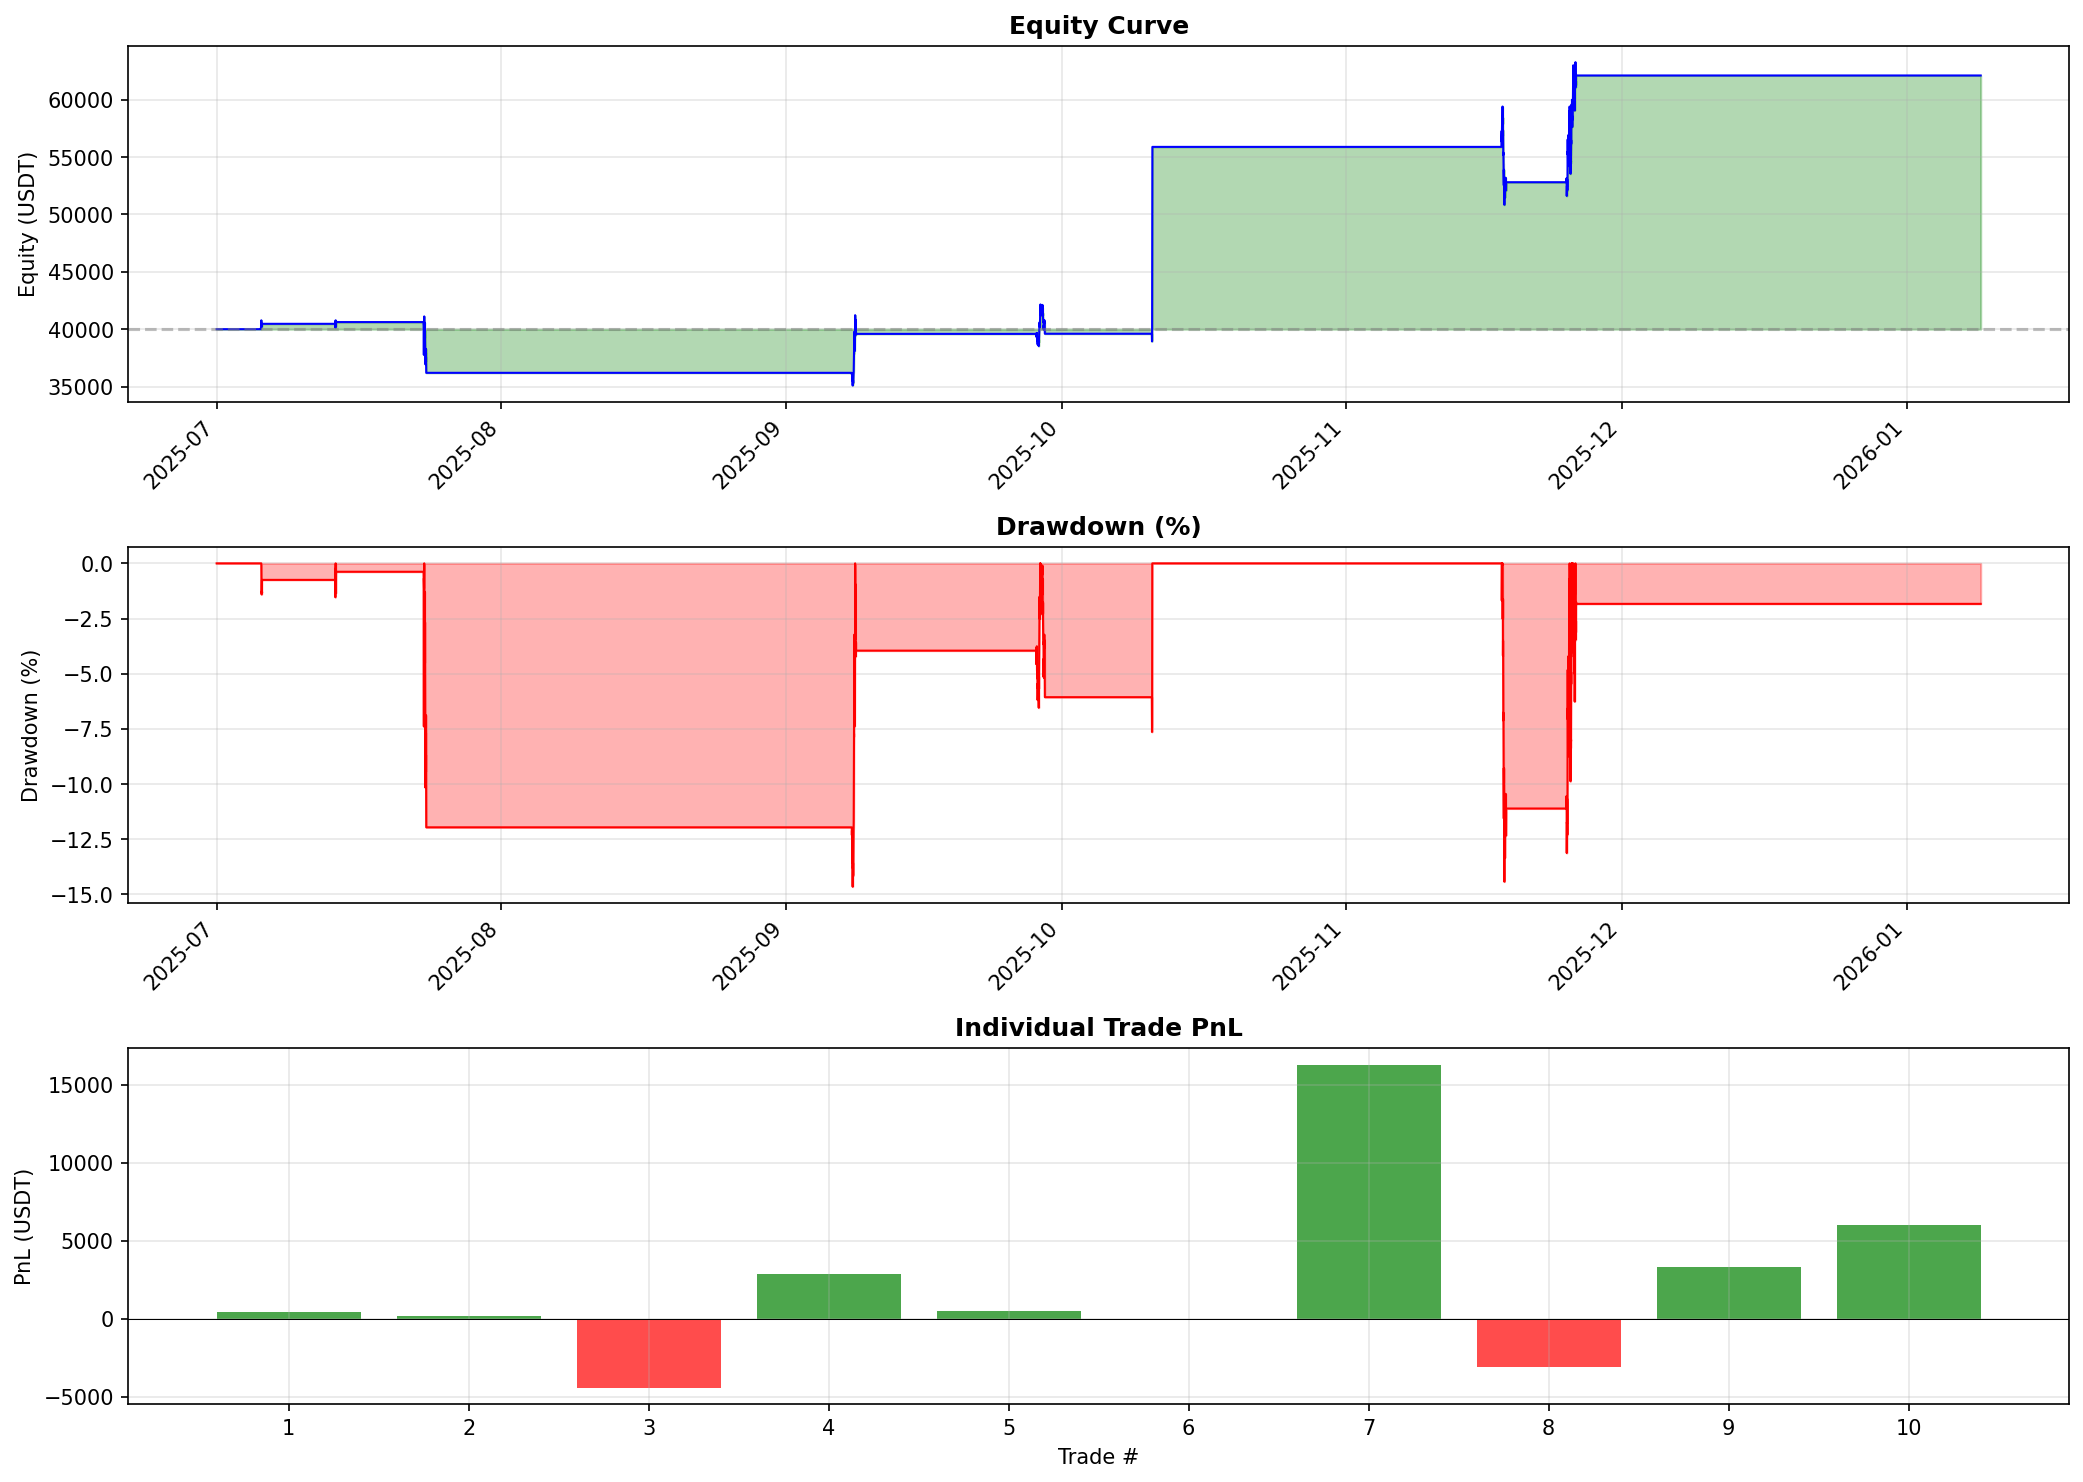
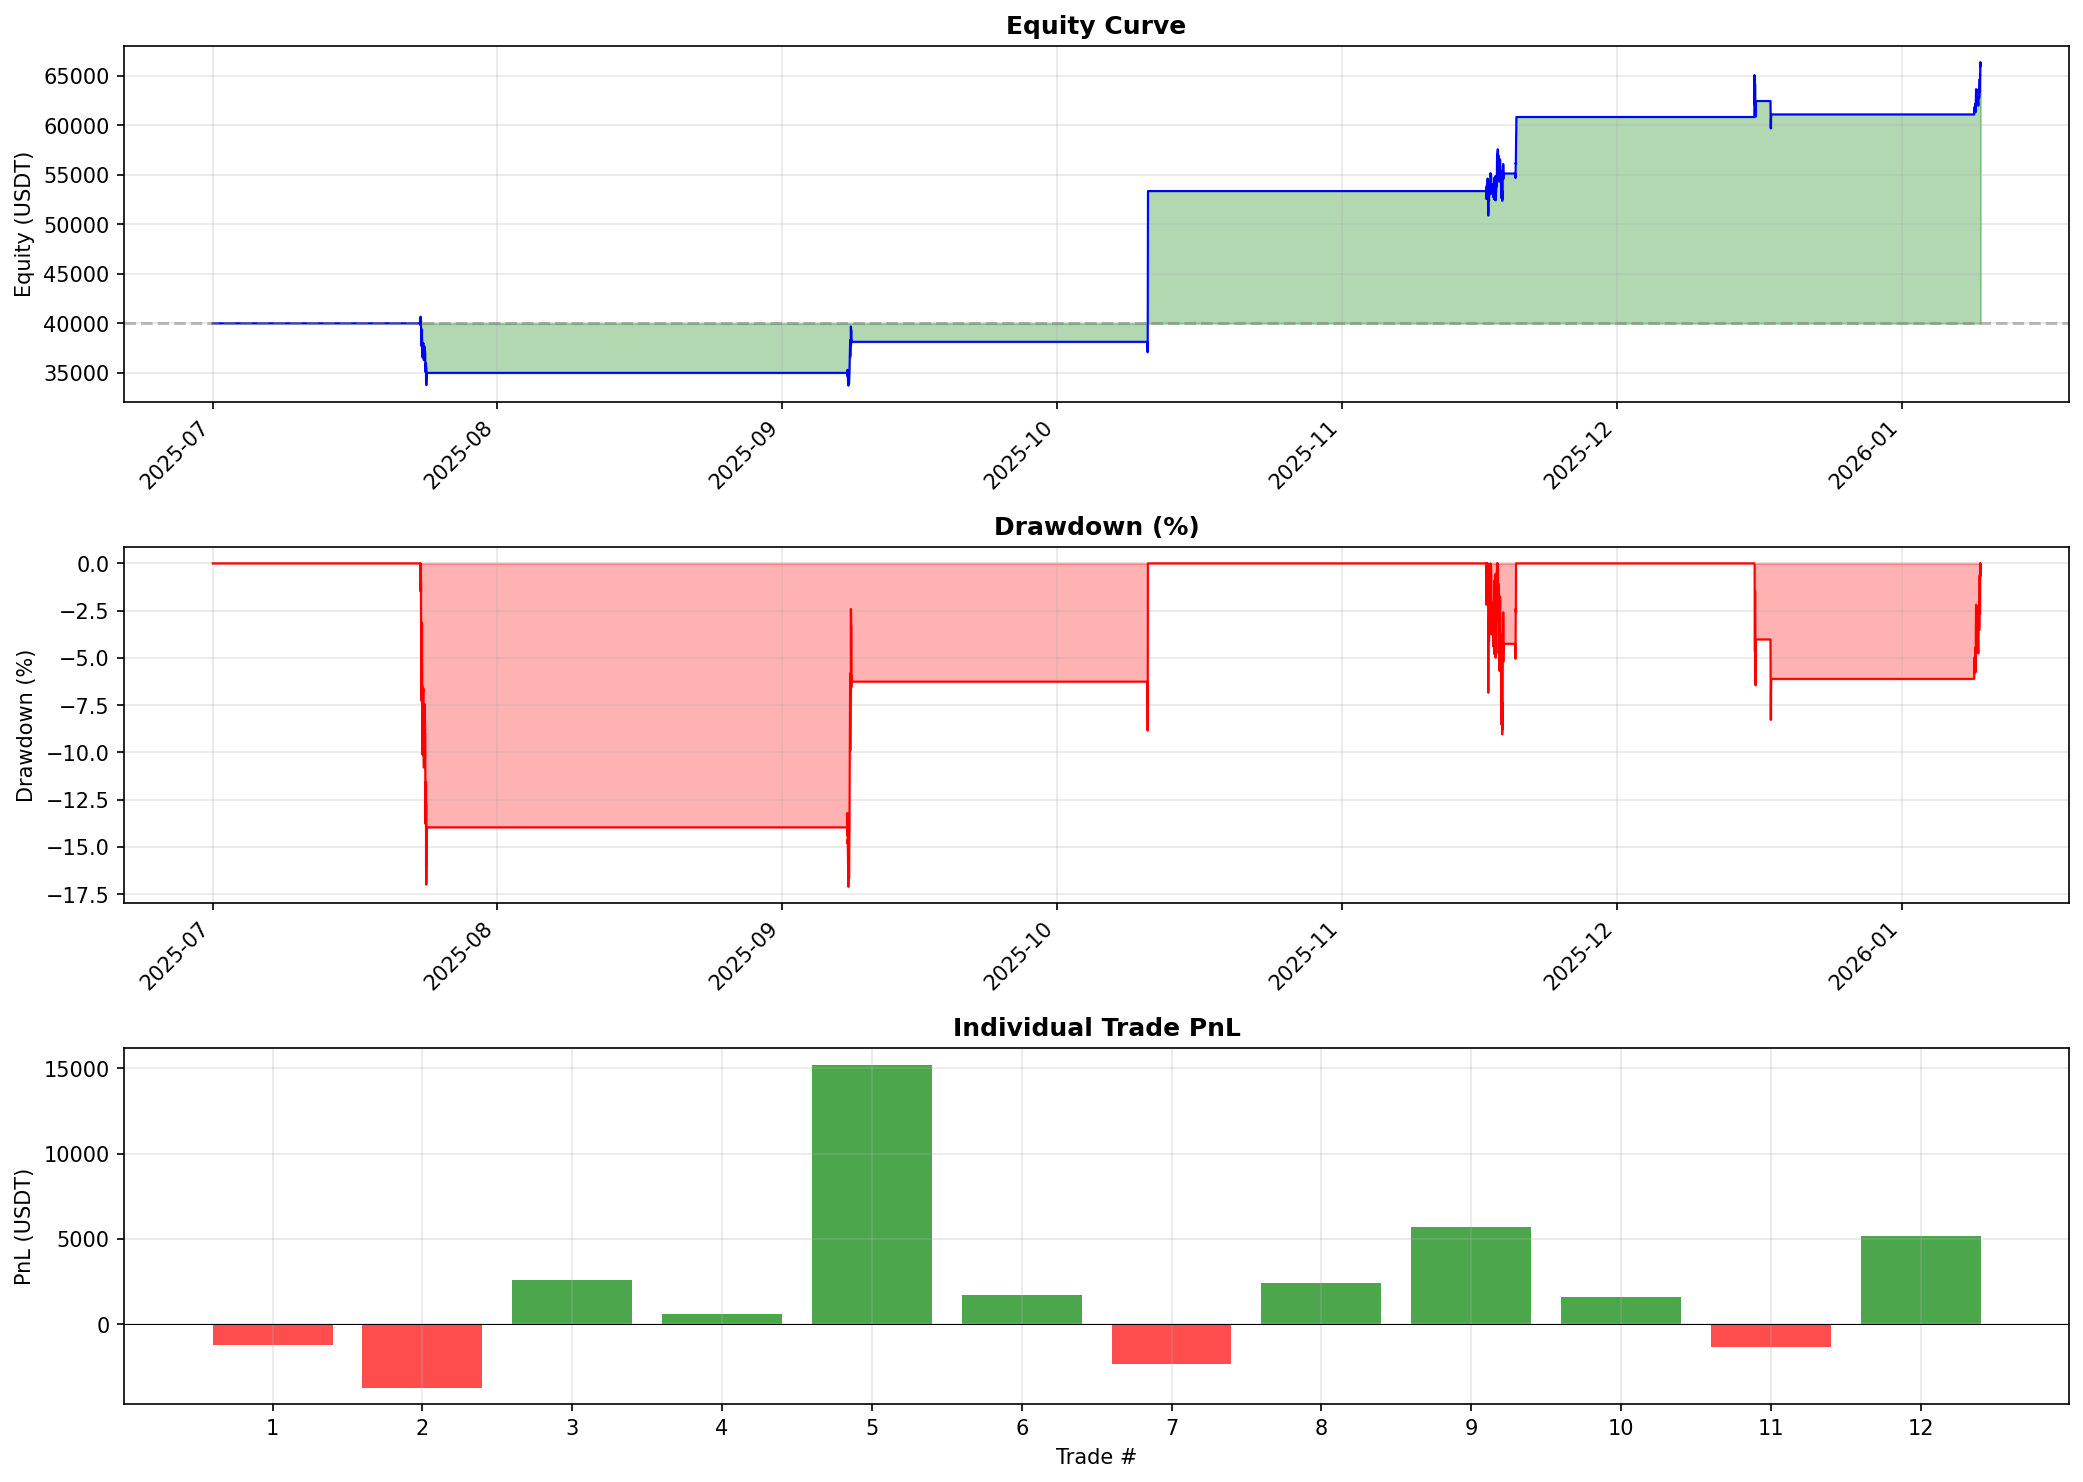
fix and clean froozen anchor. fix backtests, add equasion for calculate m1 rolling back

diff --git a/backtests/run_backtest.py b/backtests/run_backtest.py
@@ -313,7 +313,7 @@ class BacktestConfig:
     # Maximum position duration before forced exit (in bars)
     # 144 bars = 32 hours for 15m timeframe
     # 96 bars = 24 hours for 15m timeframe
-    max_position_bars: int = 192  # 48 hours
+    max_position_bars: int = 144  # 32 hours
 
     # Funding filter
     # Block entry if net funding cost exceeds this threshold per 8h
@@ -330,15 +330,29 @@ class BacktestConfig:
     # Entry requires H < threshold (0.45), holding allows H < threshold + tolerance(0.02) (0.47)
     hurst_watch_tolerance: float = 0.005
 
-    halflife_max_bars: int = 64  # 16 hours
+    halflife_max_bars: int = 48  # 12 hours
 
     # Trailing Entry settings (simulation of live EntryObserverService)
+    """
+    Поскольку мы симулируем вебсокеты на минутных свечах, мы не можем использовать реальные данные. EntryObserver использует 15м шкалу.
+    Нужно пересчитать pullback под 1m-close шкалу!!!
+    Грубая инженерная оценка:
+        •	шаг цены масштабируется ~ sqrt(dt)
+        •	dt = 1m / 15m = 1/15
+        •	sqrt(1/15) ≈ 0.258
+
+    Тогда:
+	    •	0.25 * 0.258 ≈ 0.065 ~ 0.07 || 0.06
+    То есть, если “0.25 на реальных тиках” примерно соответствует “0.06 - 0.08 на 1m close”.
+
+    Реально, с учётом сглаживания close, можно ожидать диапазон:
+	    •	0.05 ~ 0.10 для backtest на 1m close.
+    """
     use_trailing_entry: bool = True  # Enable trailing entry simulation
-    # trailing_pullback: float = 0.15  # Z-score pullback for reversal confirmation
-    trailing_pullback: float = 0.25  # Z-score pullback for reversal confirmation
+    trailing_pullback: float = 0.03  # Z-score pullback for reversal confirmation
     trailing_timeout_minutes: int = 90  # Max watch duration before cancellation
     false_alarm_hysteresis: float = (
-        0.50  # Cancel watch only if Z drops this much below threshold
+        0.45  # Cancel watch only if Z drops this much below threshold
     )
 
     use_adf_filter: bool = True  # Enable ADF filter
@@ -1736,12 +1750,25 @@ class StatArbBacktest:
         correlation_results: Optional[Dict] = None,
     ) -> None:
         """Start watching a symbol for trailing entry."""
-        # Calculate spread_mean and spread_std from the spread_series
-        # Use the lookback window for consistency with z-score calculation
+        # Calculate spread_mean and spread_std using ROLLING calculation
+        # This must match ZScoreService which uses rolling(window).mean()/std()
+        # NOT the static mean/std of the tail!
         lookback = min(len(z_result.spread_series), 288)  # ~3 days of 15m candles
-        recent_spread = z_result.spread_series.tail(lookback).dropna()
-        spread_mean = float(recent_spread.mean()) if len(recent_spread) > 0 else 0.0
-        spread_std = float(recent_spread.std()) if len(recent_spread) > 1 else 1.0
+
+        # Use ROLLING mean/std at the current point (last value of rolling series)
+        rolling_mean = z_result.spread_series.rolling(window=lookback).mean()
+        rolling_std = z_result.spread_series.rolling(window=lookback).std()
+
+        spread_mean = (
+            float(rolling_mean.iloc[-1]) if len(rolling_mean.dropna()) > 0 else 0.0
+        )
+        spread_std = (
+            float(rolling_std.iloc[-1]) if len(rolling_std.dropna()) > 0 else 1.0
+        )
+
+        # Ensure std is not zero
+        if spread_std == 0 or np.isnan(spread_std):
+            spread_std = 1.0
 
         # Calculate halflife for dynamic position sizing if enabled
         halflife = None
@@ -1863,6 +1890,7 @@ class StatArbBacktest:
 
             # Fallback: use 15m data if no 1m data
             if not checked_1m:
+                print(f"    ⚠ {symbol} NO 1M DATA - using 15m fallback")
                 coin_price = window_data[symbol]["close"].iloc[-1]
                 primary_price = window_data[self.primary_pair]["close"].iloc[-1]
                 live_z = self._calculate_live_z(
@@ -1933,18 +1961,15 @@ class StatArbBacktest:
                 watches_to_remove.append((symbol, "HURST_TRENDING"))
                 continue
 
-            # Signal still valid - KEEP FROZEN ANCHOR for params
+            # Signal still valid - KEEP FROZEN ANCHOR
             # beta, spread_mean, spread_std, z_entry_threshold stay frozen
-            # BUT max_z CAN increase if scan Z is higher (it's a MAX tracker!)
-            old_max_z = watch.max_z
-            if abs_scan_z > watch.max_z:
-                watch.max_z = abs_scan_z
+            # max_z is updated ONLY from real-time data (1m simulation or 15m fallback with frozen params)
+            # NOT from scan (which uses new params)
 
             entry_target = watch.max_z - self.config.trailing_pullback
-            max_z_change = f"→{watch.max_z:.2f}" if watch.max_z != old_max_z else ""
             print(
                 f"🛡 WATCH {symbol} FROZEN | scan_Z={abs_scan_z:.2f} | "
-                f"max_z={old_max_z:.2f}{max_z_change} | entry_target={entry_target:.2f}"
+                f"max_z={watch.max_z:.2f} | entry_target={entry_target:.2f}"
             )
 
         # Remove processed watches
@@ -1978,38 +2003,19 @@ class StatArbBacktest:
         end_time: datetime,
     ) -> Optional[pd.DataFrame]:
         """
-        Robust loading of 1m candles.
-        Ensures we get data even if boundaries are tight.
+        Load 1m candles from pre-loaded cache for trailing entry simulation.
+        Uses the same cache as ExitObserver simulation.
         """
-        try:
-            # Load with a small buffer to ensure we cover the edges
-            buffer = timedelta(minutes=5)
-            load_start = start_time - buffer
-            load_end = end_time + buffer
+        # Get from pre-loaded cache (loaded at backtest start)
+        df_full = self._minute_data_cache.get(symbol)
 
-            # Calculate bars approx
-            num_bars = int((load_end - load_start).total_seconds() / 60)
-
-            df = await self.data_loader.load_ohlcv_with_cache(
-                symbol=symbol,
-                num_bars=num_bars,
-                timeframe="1m",
-                start_time=load_start,
-                end_time=load_end,
-            )
-
-            if df is None or df.empty:
-                return None
-
-            # Precise filtering
-            df = df[
-                (df.index > start_time - timedelta(seconds=1)) & (df.index <= end_time)
-            ]
-
-            return df if not df.empty else None
-        except Exception as e:
-            print(f"Error loading 1m for {symbol}: {e}")
+        if df_full is None or df_full.empty:
             return None
+
+        # Filter to requested time range
+        df = df_full[(df_full.index > start_time) & (df_full.index <= end_time)]
+
+        return df if not df.empty else None
 
     def _simulate_trailing_on_minute_data(
         self,
@@ -2036,6 +2042,7 @@ class StatArbBacktest:
             - None: Still watching
         """
         max_z = watch.max_z
+        min_z_seen = float("inf")  # Track minimum |Z| for debugging
 
         # Calculate false alarm level with hysteresis
         false_alarm_level = watch.z_entry_threshold - self.config.false_alarm_hysteresis
@@ -2052,6 +2059,20 @@ class StatArbBacktest:
         if len(common_index) == 0:
             print(f"    ⚠ {watch.symbol} No 1m candles in common index")
             return None
+
+        # DEBUG: Print first and last 1m candle prices to verify data is changing
+        first_ts = common_index[0]
+        last_ts = common_index[-1]
+        first_coin = coin_1m.loc[first_ts, "close"]
+        last_coin = coin_1m.loc[last_ts, "close"]
+        first_primary = primary_1m.loc[first_ts, "close"]
+        last_primary = primary_1m.loc[last_ts, "close"]
+        print(
+            f"    🔬 DEBUG {watch.symbol}: {len(common_index)} candles "
+            f"| coin: {first_coin:.4f} → {last_coin:.4f} (Δ{(last_coin/first_coin-1)*100:.3f}%) "
+            f"| ETH: {first_primary:.2f} → {last_primary:.2f} (Δ{(last_primary/first_primary-1)*100:.3f}%) "
+            f"| β={watch.beta:.4f} | std={watch.spread_std:.6f}"
+        )
 
         for ts in common_index:
             coin_price = coin_1m.loc[ts, "close"]
@@ -2090,15 +2111,19 @@ class StatArbBacktest:
             if abs_z > max_z:
                 max_z = abs_z
 
+            # Track min for debugging
+            if abs_z < min_z_seen:
+                min_z_seen = abs_z
+
         # Update max_z in watch for next iteration
         watch.max_z = max_z
 
-        # Debug: why no entry?
+        # Debug: show frozen Z range vs entry target
         entry_target = max_z - self.config.trailing_pullback
         print(
-            f"    📊 {watch.symbol} 1m simulation: {len(common_index)} candles | "
-            f"max_z={max_z:.2f} | entry_target={entry_target:.2f} | "
-            f"false_alarm={false_alarm_level:.2f}"
+            f"    📊 {watch.symbol} 1m: {len(common_index)} candles | "
+            f"frozen_Z: [{min_z_seen:.2f}-{max_z:.2f}] | "
+            f"entry_target={entry_target:.2f} | gap={min_z_seen - entry_target:.2f}"
         )
 
         return None

diff --git a/src/domain/entry_observer/entry_observer.py b/src/domain/entry_observer/entry_observer.py
@@ -241,18 +241,20 @@ class EntryObserverService:
                     )
                     return
 
-                # Signal still valid - KEEP FROZEN ANCHOR for params
-                # beta, spread_mean, spread_std, z_entry_threshold stay frozen
-                # BUT max_z CAN increase if scan Z is higher (it's a MAX tracker!)
-                old_max_z = watch.max_z
-                if abs_event_z > watch.max_z:
-                    watch.max_z = abs_event_z
+                # Signal still valid - KEEP FROZEN ANCHOR for Z-score calculation
+                # beta, spread_mean, spread_std, z_entry_threshold stay FROZEN (affect Z calculation)
+                # max_z is updated ONLY from real-time WebSocket data (_process_price_update)
+                # NOT from scan (which uses new params that would cause "Parameter Jump")
+                #
+                # ONLY halflife can be updated - it affects position sizing, not trailing logic
+                old_halflife = watch.halflife
+                watch.halflife = event.halflife
 
-                max_z_change = f"→{watch.max_z:.2f}" if watch.max_z != old_max_z else ""
+                entry_target = watch.max_z - self._pullback
                 self._logger.info(
-                    f"🛡 Watch {coin} FROZEN | "
-                    f"scan_Z={abs_event_z:.2f} | max_z={old_max_z:.2f}{max_z_change} | "
-                    f"β={watch.beta:.3f} (frozen)"
+                    f"🛡 Watch {coin} FROZEN | scan_Z={abs_event_z:.2f} | "
+                    f"max_z={watch.max_z:.2f} | entry_target={entry_target:.2f} | "
+                    f"HL: {old_halflife:.1f}→{watch.halflife:.1f}"
                 )
                 return
 
